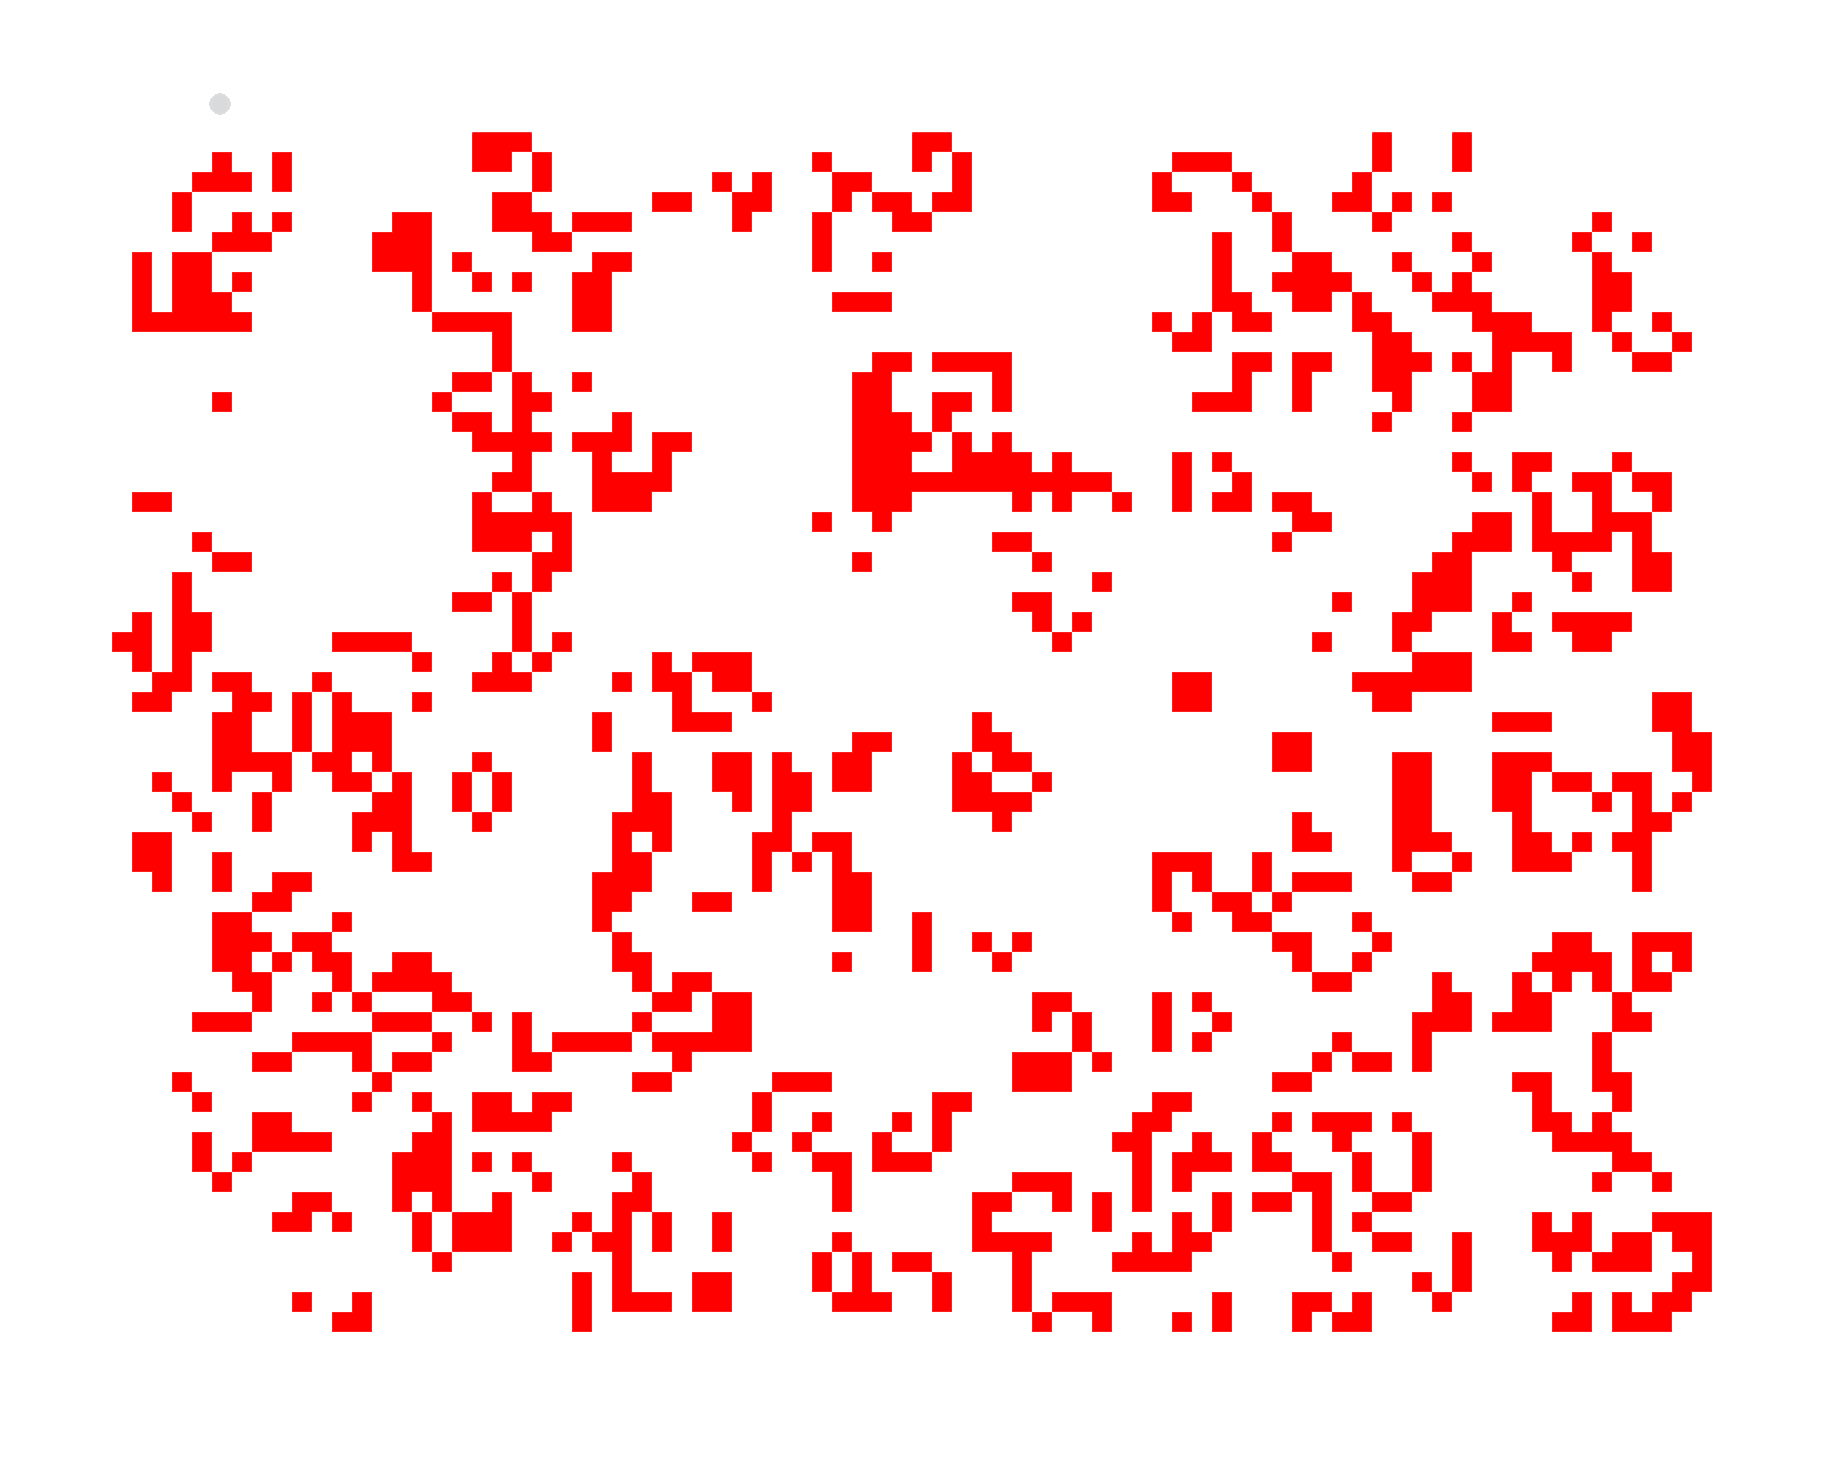
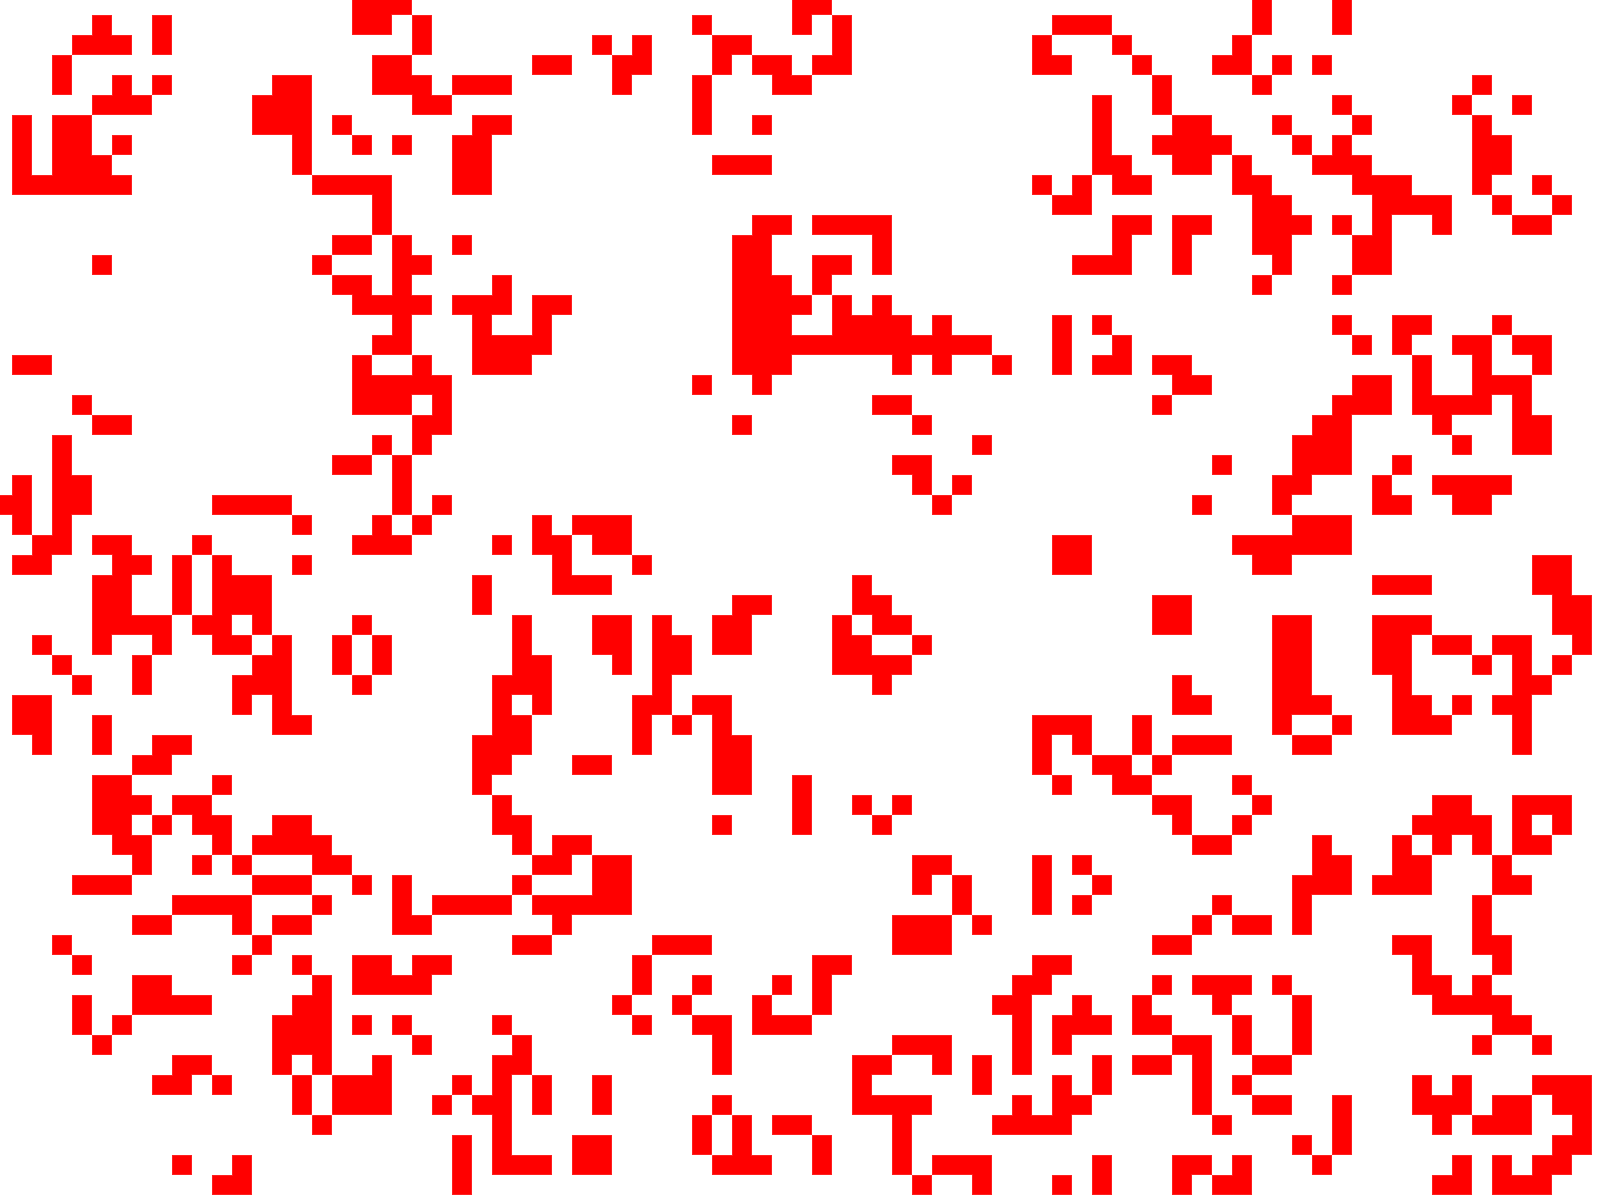
clean up rect structure

diff --git a/homePage.html b/homePage.html
@@ -18,40 +18,45 @@
       <h1> Jacob Zhao </h1>
       <img src="HP covers/HP JZ2.png" class="bg-img" />
       <div class="intro-block">
-        <p>About Me</p>
+        <h2>About Me</h2>
         <p>Hi, I am Jacob. I was born in Bellevue, WA, and I am currently living in Cambridge, MA.
           I am studying Architecture(Course 4), and considering a double major between Math(18) and Climate System
           Science
           and Engineering(1-12), a new joint major between civil engineering and Earth, Atmospheric, and Planetary
           Sciences.</p>
-        <img src="HP covers/Home Page/Profile Picture.png " class="profile-pic" style="float: right" />
+        <img src="HP covers/Home Page/Profile Picture.png" class="profile-pic" />
       </div>
     </a>
     <a href="archFolio.html" class="rect" style="background-color: #686D75;">
       <h1> ArchFolio </h1>
       <div class="intro-block">
-        <p>HELLO SUCKER</p>
+        <h2>Architecture Portfolio</h2>
+        <p>Hi, I am Jacob. I was born in Bellevue, WA, and I am currently living in Cambridge, MA.
+          I am studying Architecture(Course 4), and considering a double major between Math(18) and Climate System
+          Science
+          and Engineering(1-12), a new joint major between civil engineering and Earth, Atmospheric, and Planetary
+          Sciences.</p>
       </div>
       <img src="HP covers/HP shelter.png" class="bg-img" />
     </a>
     <a href="testTwo.html" class="rect" style="background-color: #53585B;">
       <h1> Code </h1>
       <div class="intro-block">
-        <p>HELLO SUCKER</p>
+        <h2>HELLO SUCKER</h2>
       </div>
       <img style="mix-blend-mode: luminosity;" src="HP covers/GameOfLifeCover.png" class="bg-img" />
     </a>
     <div class="rect" style="background-color: #444947;">
       <h1> ArtWorks </h1>
       <div class="intro-block">
-        <p>HELLO SUCKER</p>
+        <h2>HELLO SUCKER</h2>
       </div>
       <img style="mix-blend-mode: multiply" src="HP covers/HP Artwork.png" class="bg-img" />
     </div>
     <div class="rect" style="background-color: #31352F;">
       <h1> My Mission </h1>
       <div class="intro-block">
-        <p>HELLO SUCKER</p>
+        <h2>HELLO SUCKER</h2>
       </div>
       <!-- <img style="mix-blend-mode: difference" src="HP covers/HP My Mission.JPG" /> -->
     </div>

diff --git a/homePage.css b/homePage.css
@@ -6,20 +6,23 @@ body {
     font-family: 'Sofia Sans', sans-serif;
 }
 
-a.rect {
-    display: block;
-    text-decoration: none;
+h2 {
+    margin: 0 0;
+    font-size: 24px;
+    color: white;
+    font-family: 'Sofia Sans', sans-serif;
+    font-weight: 400;
 }
 
 p {
     color: white;
-    font-family: Sofia Sans;
+    font-family: 'Sofia Sans', sans-serif;
 }
 
 h1 {
     color: white;
     font-size: 32px;
-    font-family: Sofia Sans;
+    font-family: 'Sofia Sans', sans-serif;
     font-weight: 400;
     word-wrap: break-word;
 
@@ -49,9 +52,14 @@ h1 {
     flex: 1;
     transition: 0.8s ease;
 
+    text-decoration: none;
     position: relative;
+
+    display: flex;
     text-align: center;
     overflow: hidden;
+    align-items: center;
+    flex-direction: column;
 }
 
 .rect:hover {
@@ -62,33 +70,43 @@ h1 {
     opacity: 0.8;
 }
 
-.rect:hover .bg-img {
-    filter: blur(20px);
+.rect:hover .bg-img,
+.rect:hover h1 {
+    filter: blur(10px);
 }
 
 .bg-img {
+    z-index: 0;
     opacity: 0;
     animation: fadeIn 1s forwards;
     transition: 0.8s ease;
 
+    position: absolute;
+    bottom: 0;
+    left: 0;
     width: 100%;
     height: 100%;
     object-fit: cover;
+}
+
+.rect h1 {
+    z-index: 1;
 }
 
 .intro-block {
     opacity: 0;
     transition: 0.8s ease;
 
-    position: absolute;
+    z-index: 1;
     width: 75%;
     height: 75%;
-    top: 50%;
-    left: 50%;
-    transform: translate(-50%, -50%);
+
     background-color: #22251E;
     border-radius: 20px;
+
     text-align: left;
+    box-sizing: border-box;
+    padding: 20px;
 }
 
 .logo {
@@ -114,17 +132,8 @@ h1 {
 
 .profile-pic {
     position: absolute;
-    width : auto;
+    width: auto;
     height: 40%;
     object-fit: cover;
     border-radius: 20px;
-
-    float: right;
-    margin: 0 20px;
-}
-
-
-
-.intro-block p {
-    margin: 20px;
 }
